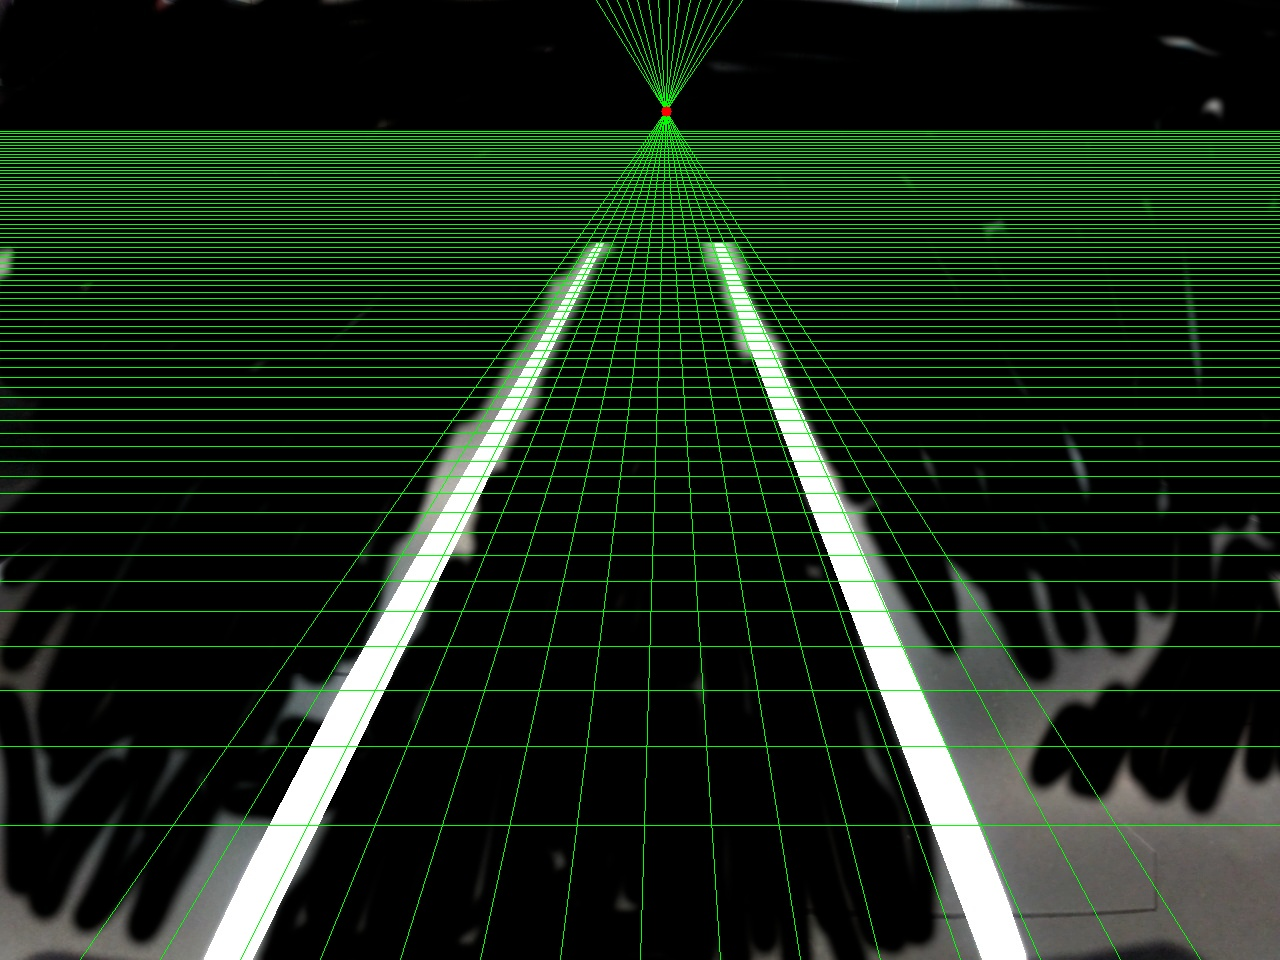
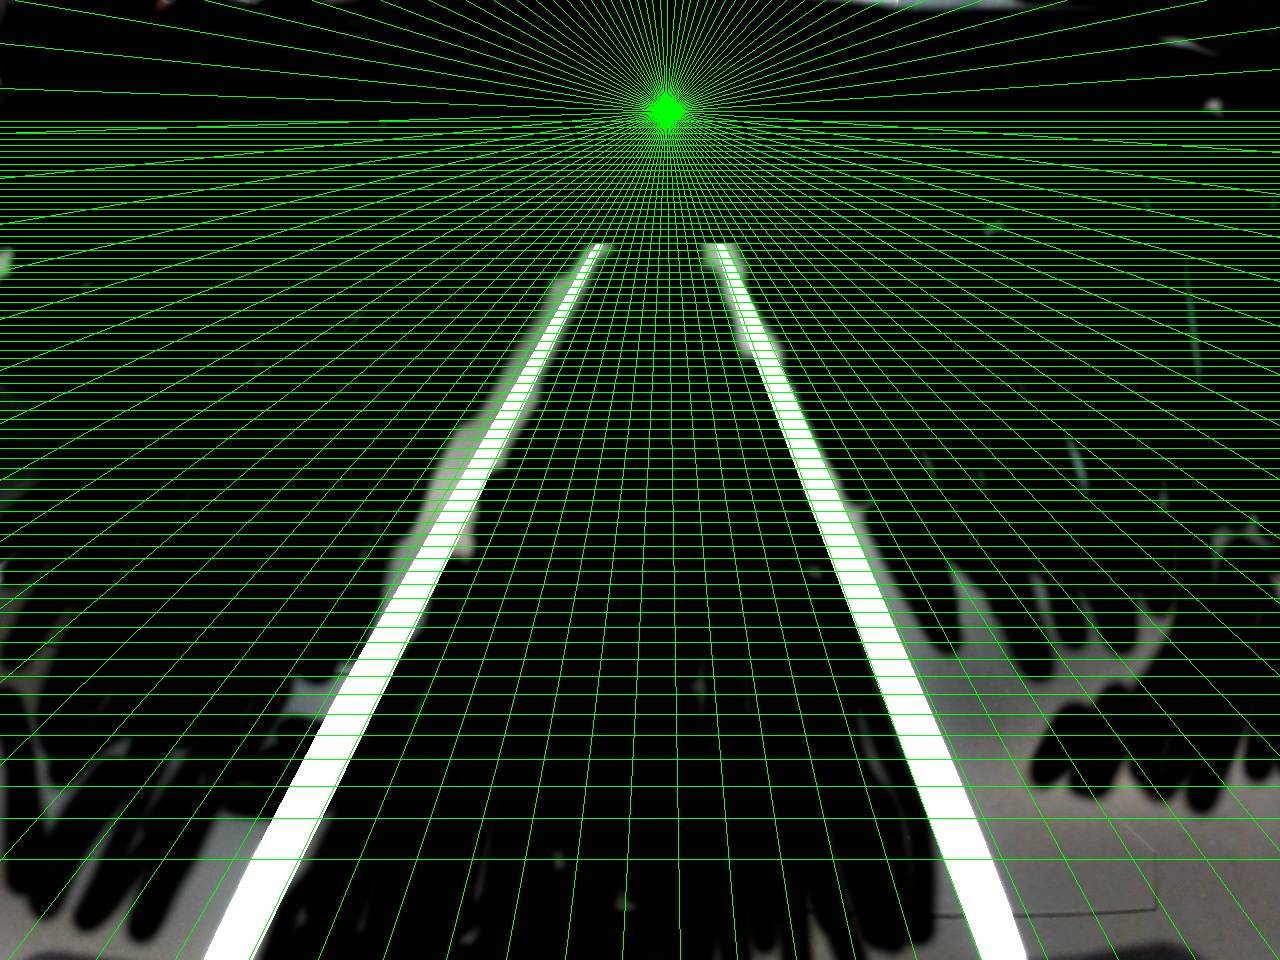
вроде полная сетка

diff --git a/Computer_Vision_for_Autonomous_Robot_Navigation/Main_stage/vanishing_point.py b/Computer_Vision_for_Autonomous_Robot_Navigation/Main_stage/vanishing_point.py
@@ -226,61 +226,93 @@ def find_vanishing_point(image):
     
     return vanishing_point
 
-def draw_perspective_grid(image, vanishing_point, num_vert_lines=16, num_horiz_lines=12,
-                        line_color=(255, 255, 255), line_thickness=2):
+
+def draw_perspective_grid(image, vanishing_point, num_vert_lines=36, num_horiz_lines=12,
+                         line_color=(255, 255, 255), line_thickness=2):
     """
-    Рисует перспективную сетку с правильным изменением шага горизонтальных линий
+    Рисует перспективную сетку с линиями, расходящимися во всех направлениях от точки схода
+    
+    :param image: исходное изображение
+    :param vanishing_point: tuple (x, y) - координаты точки схода
+    :param num_vert_lines: количество линий по кругу (рекомендуется 24-36)
+    :param num_horiz_lines: количество горизонтальных линий
+    :param line_color: цвет линий (BGR)
+    :param line_thickness: толщина линий
+    :return: изображение с нарисованной сеткой
     """
     result = image.copy()
     height, width = image.shape[:2]
-    vp_x, vp_y = map(int, vanishing_point)
     
-    # 1. Вертикальные линии (сходящиеся к точке схода)
-    for i in np.linspace(0, width, num_vert_lines + 2)[1:-1]:
-        start_x = int(i)
-        start_y = height - 1  # Начинаем от нижнего края
-        
-        # Вычисляем направление к точке схода
-        dir_x = vp_x - start_x
-        dir_y = vp_y - start_y
-        
-        # Находим точку пересечения с верхней границей
-        if dir_y != 0:
-            t = (0 - start_y) / dir_y
-            end_x = int(start_x + t * dir_x)
-            end_y = 0
-            
-            if 0 <= end_x <= width:
-                cv2.line(result, (start_x, start_y), (end_x, end_y), line_color, line_thickness)
+    try:
+        vp_x, vp_y = map(int, vanishing_point)
+    except (TypeError, ValueError):
+        print("Ошибка: некорректные координаты точки схода")
+        return image
 
-    # 2. Горизонтальные линии (с изменяющимся шагом)
+    # 1. Вертикальные линии (расходящиеся по всем направлениям)
+    angles = np.linspace(0, 2*np.pi, num_vert_lines, endpoint=False)
+    
+    for angle in angles:
+        # Вычисляем направление линии
+        dir_x = np.cos(angle)
+        dir_y = np.sin(angle)
+        
+        # Находим точки пересечения с границами изображения
+        t_values = []
+        
+        # Проверяем все 4 границы изображения
+        for border_x in [0, width]:
+            if dir_x != 0:
+                t = (border_x - vp_x) / dir_x
+                y = vp_y + t * dir_y
+                if 0 <= y <= height:
+                    t_values.append(t)
+                    
+        for border_y in [0, height]:
+            if dir_y != 0:
+                t = (border_y - vp_y) / dir_y
+                x = vp_x + t * dir_x
+                if 0 <= x <= width:
+                    t_values.append(t)
+        
+        # Фильтруем только положительные значения
+        positive_ts = [t for t in t_values if t > 0]
+        if not positive_ts:
+            continue
+            
+        # Берем ближайшую точку пересечения
+        t = min(positive_ts)
+        end_x = int(vp_x + t * dir_x)
+        end_y = int(vp_y + t * dir_y)
+        
+        # Рисуем линию
+        cv2.line(result, (vp_x, vp_y), (end_x, end_y), line_color, line_thickness)
+
+    # 2. Горизонтальные линии (с перспективным уменьшением шага)
     if vp_y < height and vp_y >= 0:
-        # Нелинейное распределение - больше линий ближе к точке схода
-        positions = []
+        # Экспоненциальное распределение для увеличения плотности у точки схода
+        line_positions = []
         max_y = height
-        min_y = max(0, vp_y + 20)  # Не заходим слишком близко к точке схода
+        min_y = max(0, vp_y + 10)  # Не подходим слишком близко к точке схода
         
-        # Создаем логарифмическое распределение
         for i in range(1, num_horiz_lines + 1):
-            # Логарифмическая шкала для увеличения плотности у точки схода
-            t = np.log(i + 1) / np.log(num_horiz_lines + 1)
+            # Плавное уменьшение шага по мере приближения к точке схода
+            t = np.sqrt(i / num_horiz_lines)  # Квадратный корень для плавности
             line_y = int(max_y - (max_y - min_y) * t)
-            positions.append(line_y)
+            line_positions.append(line_y)
         
-        # Рисуем линии
-        for y in positions:
-            cv2.line(result, (0, y), (width, y), line_color, line_thickness)
-    else:
-        # Если точка схода за пределами, рисуем обычные горизонтальные линии
-        for i in range(1, num_horiz_lines + 1):
-            y = int(height * i / (num_horiz_lines + 1))
+        # Рисуем горизонтальные линии
+        for y in line_positions:
             cv2.line(result, (0, y), (width, y), line_color, line_thickness)
     
-    # 3. Рисуем точку схода для наглядности
-    if 0 <= vp_x <= width and 0 <= vp_y <= height:
-        cv2.circle(result, (vp_x, vp_y), 5, (0, 0, 255), -1)
+    # # 3. Рисуем точку схода для наглядности
+    # if 0 <= vp_x <= width and 0 <= vp_y <= height:
+    #     cv2.circle(result, (vp_x, vp_y), 8, (0, 0, 255), -1)
+    #     cv2.circle(result, (vp_x, vp_y), 4, (0, 255, 255), -1)
     
     return result
+
+
 
 def draw_converging_lines(image, vanishing_point, num_lines=12, line_scale=1.0, line_color=(255, 255, 255), line_thickness=2):
     """
@@ -376,7 +408,7 @@ print(vanishing_point)
 result_image =  draw_perspective_grid(
     image=image,
     vanishing_point=vanishing_point,
-    num_vert_lines=15,  # 93   37
+    num_vert_lines=93,  # 93  
     num_horiz_lines=70,
     line_color=(0, 255, 0),  # Зеленый цвет
     line_thickness=1
